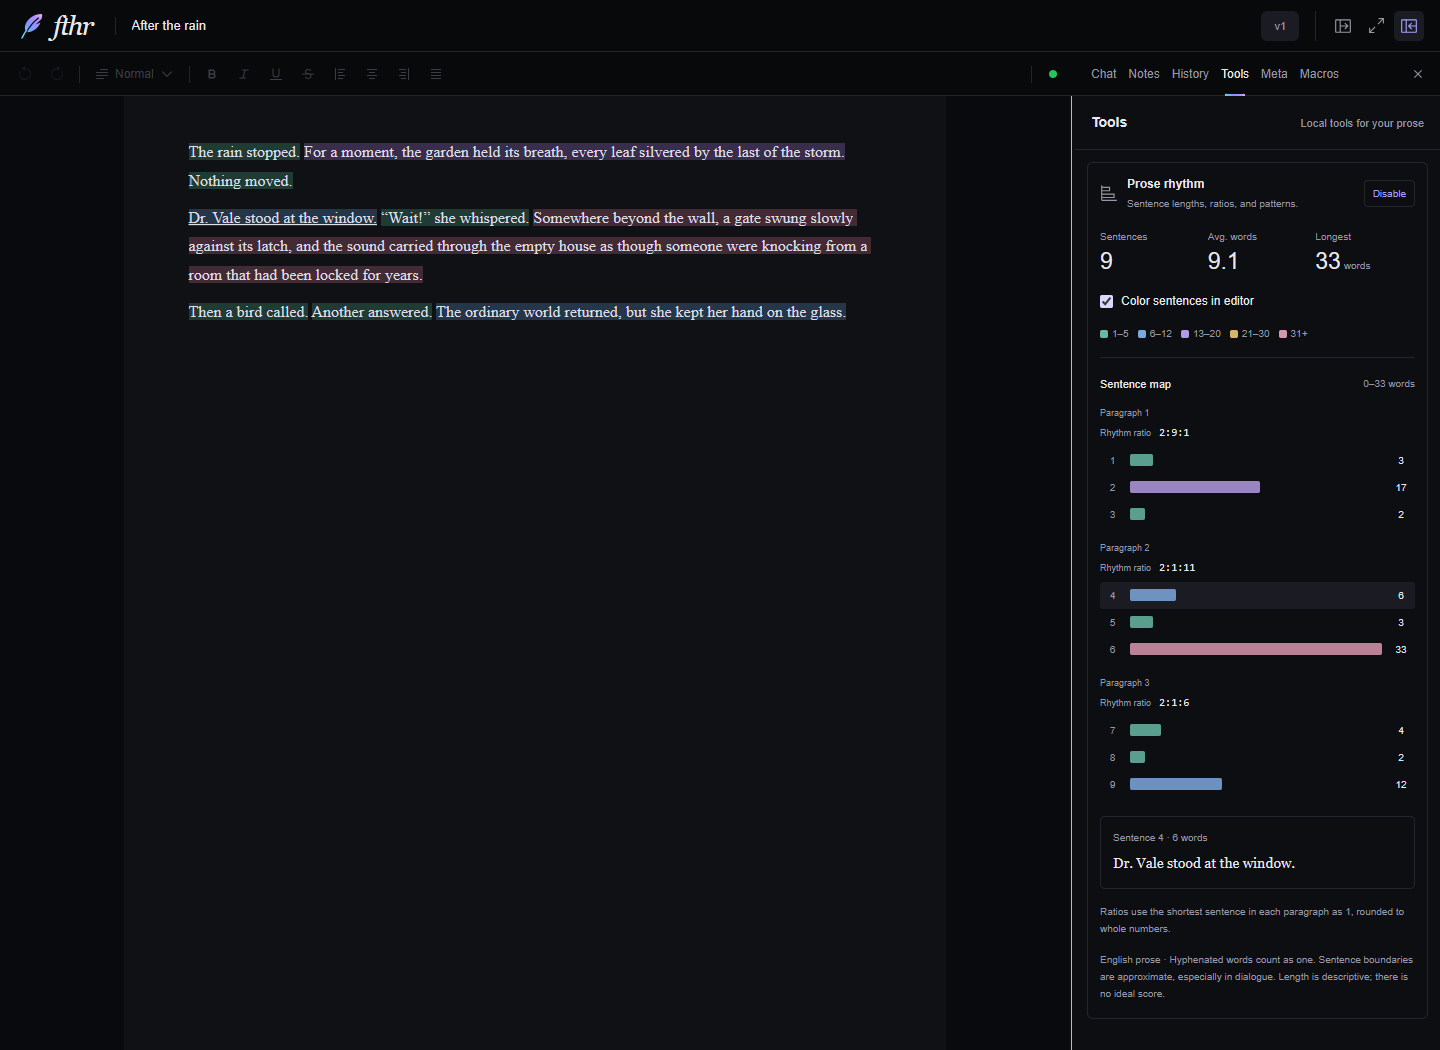
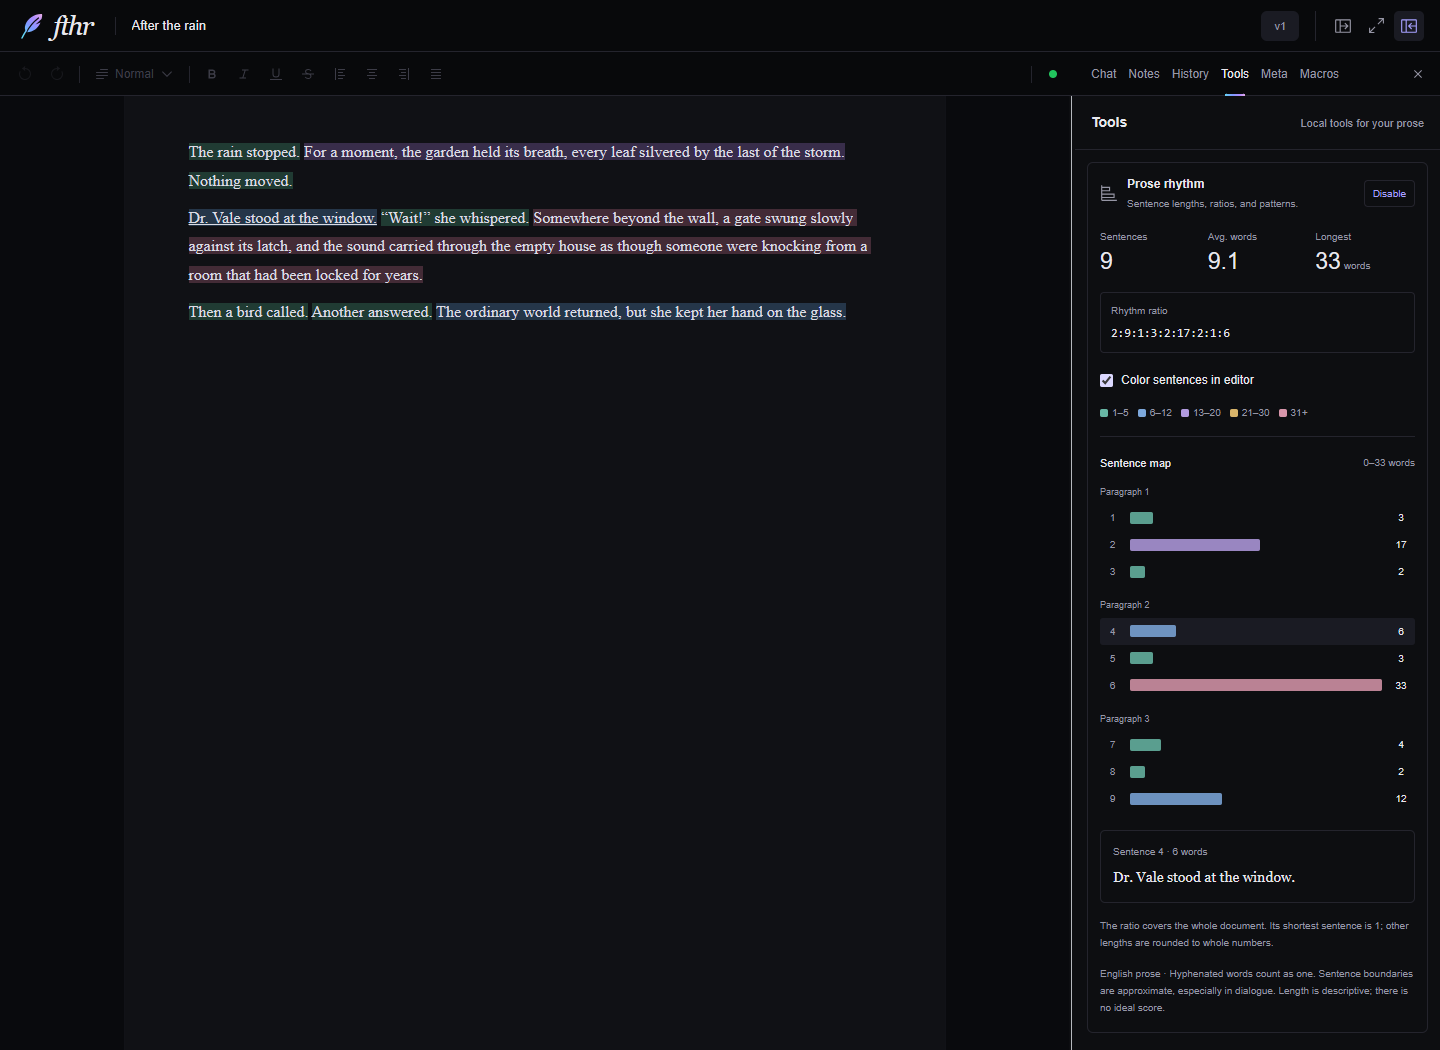
Show one rhythm ratio for the whole document

Changed region(s): [[0.75, 0.2743, 1.0, 0.9752], [0.9375, 0.3352, 0.9688, 0.3657]]

diff --git a/src/components/Tools/ToolsPanel.tsx b/src/components/Tools/ToolsPanel.tsx
@@ -17,11 +17,6 @@ export default function ToolsPanel() {
   const sentences = snapshot?.sentences || [];
   const total = sentences.reduce((sum, sentence) => sum + sentence.words, 0);
   const longest = sentences.reduce((maximum, sentence) => Math.max(maximum, sentence.words), 1);
-  const paragraphCounts = new Map<number, number[]>();
-  for (const sentence of sentences) {
-    const counts = paragraphCounts.get(sentence.paragraph) || [];
-    counts.push(sentence.words); paragraphCounts.set(sentence.paragraph, counts);
-  }
   const pageCount = Math.max(1, Math.ceil(sentences.length / PAGE_SIZE));
   const currentPage = Math.min(page, pageCount - 1), offset = currentPage * PAGE_SIZE;
   const shown = sentences.slice(offset, offset + PAGE_SIZE);
@@ -46,6 +41,8 @@ export default function ToolsPanel() {
             <div><dt>Avg. words</dt><dd>{(total / sentences.length).toFixed(1)}</dd></div>
             <div><dt>Longest</dt><dd>{longest}<small> words</small></dd></div>
           </dl>
+          <div className="rhythm-ratio"><span>Rhythm ratio</span><code aria-label="Document rhythm ratio"
+            title="All sentences in the current document version, relative to the shortest sentence and rounded to whole numbers">{rhythmRatio(sentences.map(sentence => sentence.words))}</code></div>
           <label className="rhythm-color-toggle"><input type="checkbox" checked={rhythm.colors} disabled={!rhythm.highlightsAvailable}
             onChange={event => rhythm.setColors(event.target.checked)} />Color sentences in editor</label>
           {!rhythm.highlightsAvailable && <p className="rhythm-hint">Editor colors are unavailable in this browser. The sentence map is still available.</p>}
@@ -57,12 +54,7 @@ export default function ToolsPanel() {
               const number = offset + index + 1;
               const newParagraph = index === 0 || shown[index - 1].paragraph !== sentence.paragraph;
               return <div key={sentence.id}>
-                {newParagraph && <div className="rhythm-paragraph">
-                  <p>Paragraph {sentence.paragraph}</p>
-                  <div className="rhythm-ratio"><span>Rhythm ratio</span><code
-                    aria-label={`Paragraph ${sentence.paragraph} rhythm ratio`}
-                    title="Relative to the shortest sentence in this paragraph, rounded to whole numbers">{rhythmRatio(paragraphCounts.get(sentence.paragraph) || [])}</code></div>
-                </div>}
+                {newParagraph && <p className="rhythm-paragraph">Paragraph {sentence.paragraph}</p>}
                 <button type="button" className={`rhythm-row${active?.id === sentence.id ? ' is-active' : ''}`}
                   aria-label={`Sentence ${number}: ${sentence.words} ${sentence.words === 1 ? 'word' : 'words'}${sentence.unfinished ? ', unfinished' : ''}`}
                   title={sentence.text} onMouseEnter={() => rhythm.setActiveSentence(sentence.id)}
@@ -84,7 +76,7 @@ export default function ToolsPanel() {
             {active ? <><p>Sentence {sentences.indexOf(active) + 1} · {active.words} words{active.unfinished ? ' · Unfinished' : ''}</p><blockquote>{active.text}</blockquote></>
               : <p>Point to a bar to read its sentence. Click to find it in your writing.</p>}
           </div>
-          <p className="rhythm-hint">Ratios use the shortest sentence in each paragraph as 1, rounded to whole numbers.</p>
+          <p className="rhythm-hint">The ratio covers the whole document. Its shortest sentence is 1; other lengths are rounded to whole numbers.</p>
           <p className="rhythm-hint">English prose · Hyphenated words count as one. Sentence boundaries are approximate, especially in dialogue. Length is descriptive; there is no ideal score.</p>
         </>}
     </div>}

diff --git a/src/components/Workspace/__tests__/Workspace.tools.test.tsx b/src/components/Workspace/__tests__/Workspace.tools.test.tsx
@@ -93,10 +93,26 @@ describe('Tools and Prose Rhythm in the writing workspace', () => {
     expect(button('Enable prose rhythm').getAttribute('aria-pressed')).toBe('false');
     expect(ownHighlights()).toEqual([]);
     await click('Enable prose rhythm'); expect(rows()).toHaveLength(3);
-    expect(tools().querySelector('[aria-label="Paragraph 1 rhythm ratio"]')?.textContent).toBe('3:3:1');
+    expect(tools().querySelector('[aria-label="Document rhythm ratio"]')?.textContent).toBe('3:3:1');
     await click('Disable prose rhythm');
     expect(rows()).toHaveLength(0); expect(tools().querySelector('.rhythm-content')).toBeNull();
     expect(ownHighlights()).toEqual([]);
+  });
+  it('shows one ratio for the entire document across paragraphs and chart pages', async () => {
+    const sentence = (count: number) => ['Word', ...Array(count - 1).fill('word')].join(' ') + '.';
+    const serialized = JSON.parse(textState(Array(80).fill(sentence(8)).join(' ')));
+    serialized.root.children.push(...JSON.parse(textState(`${sentence(16)} ${sentence(24)}`)).root.children);
+    const state = JSON.stringify(serialized), doc = fixture('Alpha', '');
+    useStore.setState({ chats: [{ ...doc, editorState: state, draftEditorState: state }], currentChatIndex: 0 });
+    await mount(); await openRhythm();
+    const ratio = [...Array(80).fill(1), 2, 3].join(':');
+    expect(tools().querySelectorAll('.rhythm-ratio')).toHaveLength(1);
+    expect(tools().querySelector('[aria-label="Document rhythm ratio"]')?.textContent).toBe(ratio);
+    expect(rows()).toHaveLength(80);
+    await click('Next'); expect(rows()).toHaveLength(2);
+    expect(tools().querySelectorAll('.rhythm-ratio')).toHaveLength(1);
+    expect(tools().querySelector('[aria-label="Document rhythm ratio"]')?.textContent).toBe(ratio);
+    expect(tools().querySelector('.rhythm-paragraph')?.textContent).toBe('Paragraph 2');
   });
   it('opens beside the same manuscript and maps corrected sentences without saving or changing history', async () => {
     await mount(); const editor = useStore.getState().editorInstance!, manuscript = content();

diff --git a/src/components/Tools/tools.css b/src/components/Tools/tools.css
@@ -39,9 +39,9 @@
 .rhythm-chart-heading { display: flex; justify-content: space-between; gap: 8px; margin-top: 18px; font-size: 11px; }
 .rhythm-chart-heading > span:last-child { color: var(--muted); font-size: 10px; }
 .rhythm-paragraph { font-size: 9px; color: var(--muted); margin: 14px 0 5px; min-width: 0; }
-.rhythm-ratio { display: flex; align-items: baseline; gap: 8px; min-width: 0; margin-top: 5px; }
-.rhythm-ratio > span { flex: none; font-size: 9px; }
-.rhythm-ratio code { min-width: 0; overflow-x: auto; white-space: nowrap; font-size: 11px; color: var(--ink); font-variant-numeric: tabular-nums; }
+.rhythm-ratio { display: flex; flex-direction: column; gap: 6px; min-width: 0; margin: 0 0 18px; padding: 10px; border: 1px solid var(--line); border-radius: 4px; }
+.rhythm-ratio > span { font-size: 10px; color: var(--muted); }
+.rhythm-ratio code { display: block; max-width: 100%; min-width: 0; overflow-x: auto; white-space: nowrap; font-size: 12px; color: var(--ink); font-variant-numeric: tabular-nums; }
 .rhythm-row { display: grid; grid-template-columns: 25px minmax(0, 1fr) 28px; align-items: center; width: 100%; gap: 5px; min-height: 27px; border-radius: 3px; text-align: left; }
 .rhythm-row:hover, .rhythm-row.is-active { background: var(--hover); }
 .rhythm-number, .rhythm-word-count { color: var(--muted); font-size: 10px; font-variant-numeric: tabular-nums; text-align: center; }

diff --git a/docs/prose-rhythm.md b/docs/prose-rhythm.md
@@ -4,7 +4,7 @@ Open the right panel and choose **Tools**, then **Enable** on the Prose rhythm c
 
 The map groups sentences by paragraph. Each bar shows its word count; hover or focus to read a sentence, and click to scroll to it without replacing a text selection. The five colors represent 1–5, 6–12, 13–20, 21–30, and 31+ words. The longest sentence sets the shared chart scale. Long maps have pages of 80 sentences.
 
-Each paragraph also shows a **Rhythm ratio**: divide each sentence's word count by that paragraph's shortest sentence, then round to whole numbers. For example, `8, 8, 8, 16, 16, 8` words becomes **1:1:1:2:2:1**. Ratios describe relative lengths; they do not rate the prose.
+One **Rhythm ratio** summarizes all sentences in the current document version: divide each sentence's word count by the document's shortest sentence, then round to whole numbers. For example, `8, 8, 8, 16, 16, 8` words becomes **1:1:1:2:2:1**. It stays the same across chart pages and paragraph boundaries. The ratio describes relative lengths; it does not rate the prose.
 
 This initial version analyzes English prose with local sentence and word segmentation plus rules for common titles, initials, dialogue tags, and lowercase sentence openings. Contractions and hyphenated compounds count as one word; numbers count as word-like items. Soft breaks remain within sentences; hard paragraph boundaries stay separate. Headings, code, and tables are excluded. Unpunctuated endings appear as unfinished sentences. Boundaries remain approximate for ambiguous dialogue, abbreviations, and unusual punctuation.
 
@@ -22,7 +22,7 @@ Default Tools list:
 
 Enabled, light theme:
 
-![Sentence map, paragraph ratios, and manuscript colors](previews/prose-rhythm-light.png)
+![Sentence map, document rhythm ratio, and manuscript colors](previews/prose-rhythm-light.png)
 
 [Dark theme](previews/prose-rhythm-dark.png) · [Phone layout](previews/prose-rhythm-phone.png)
 
